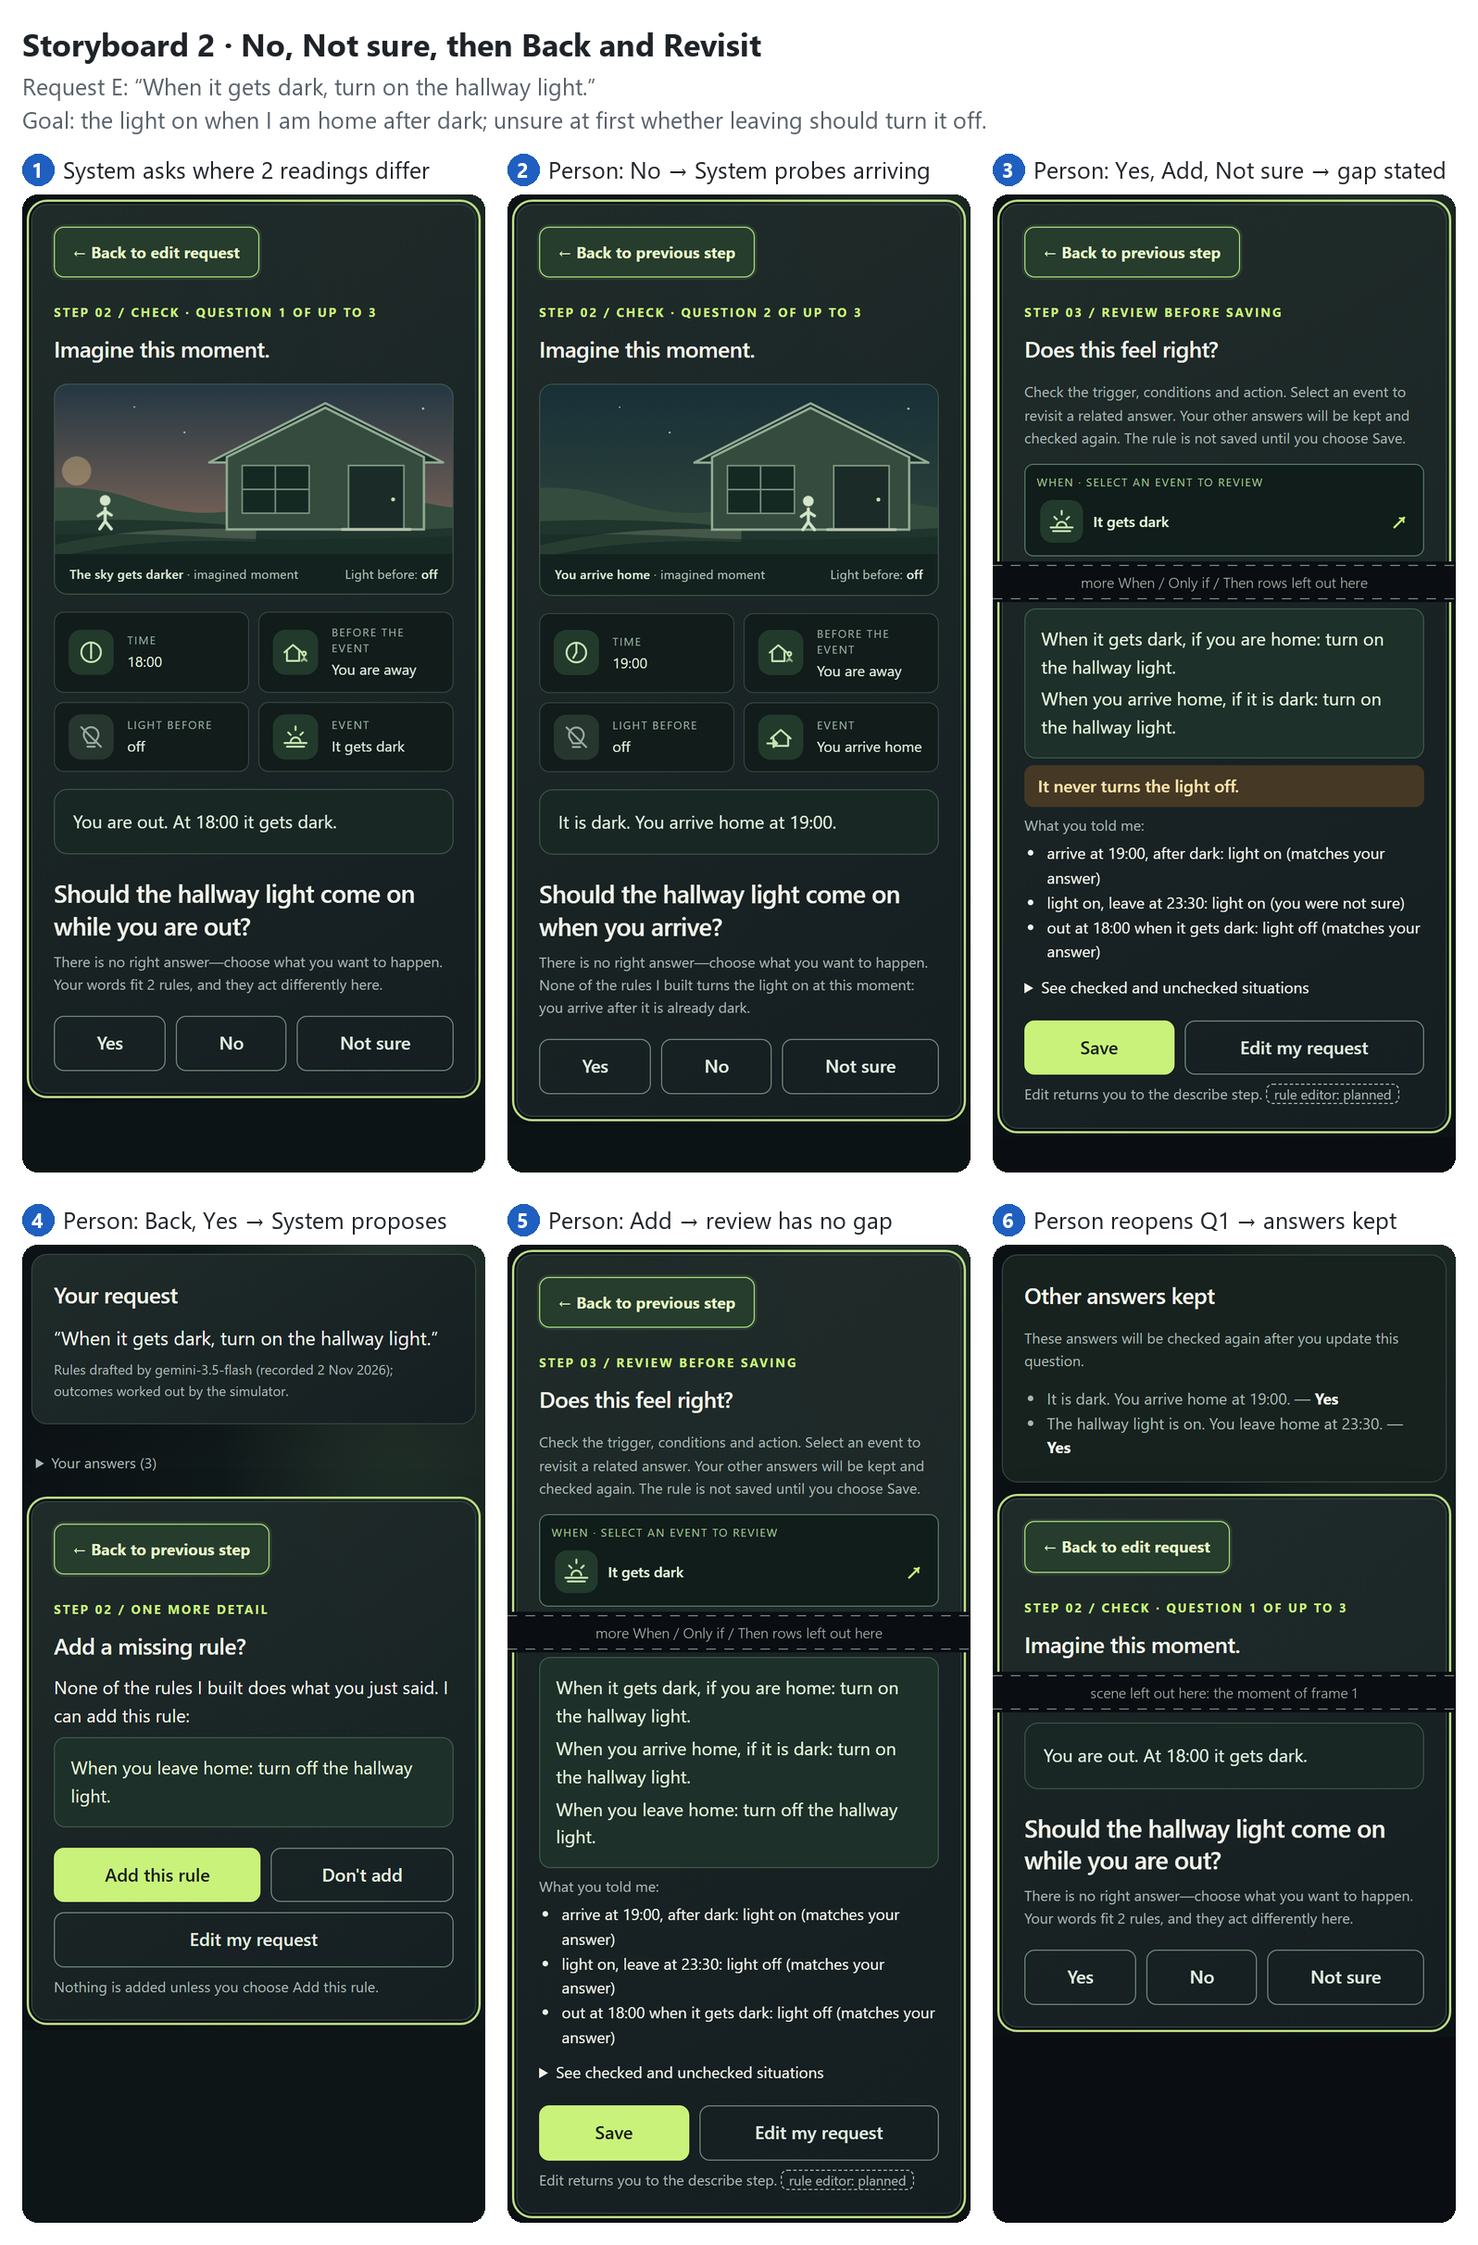
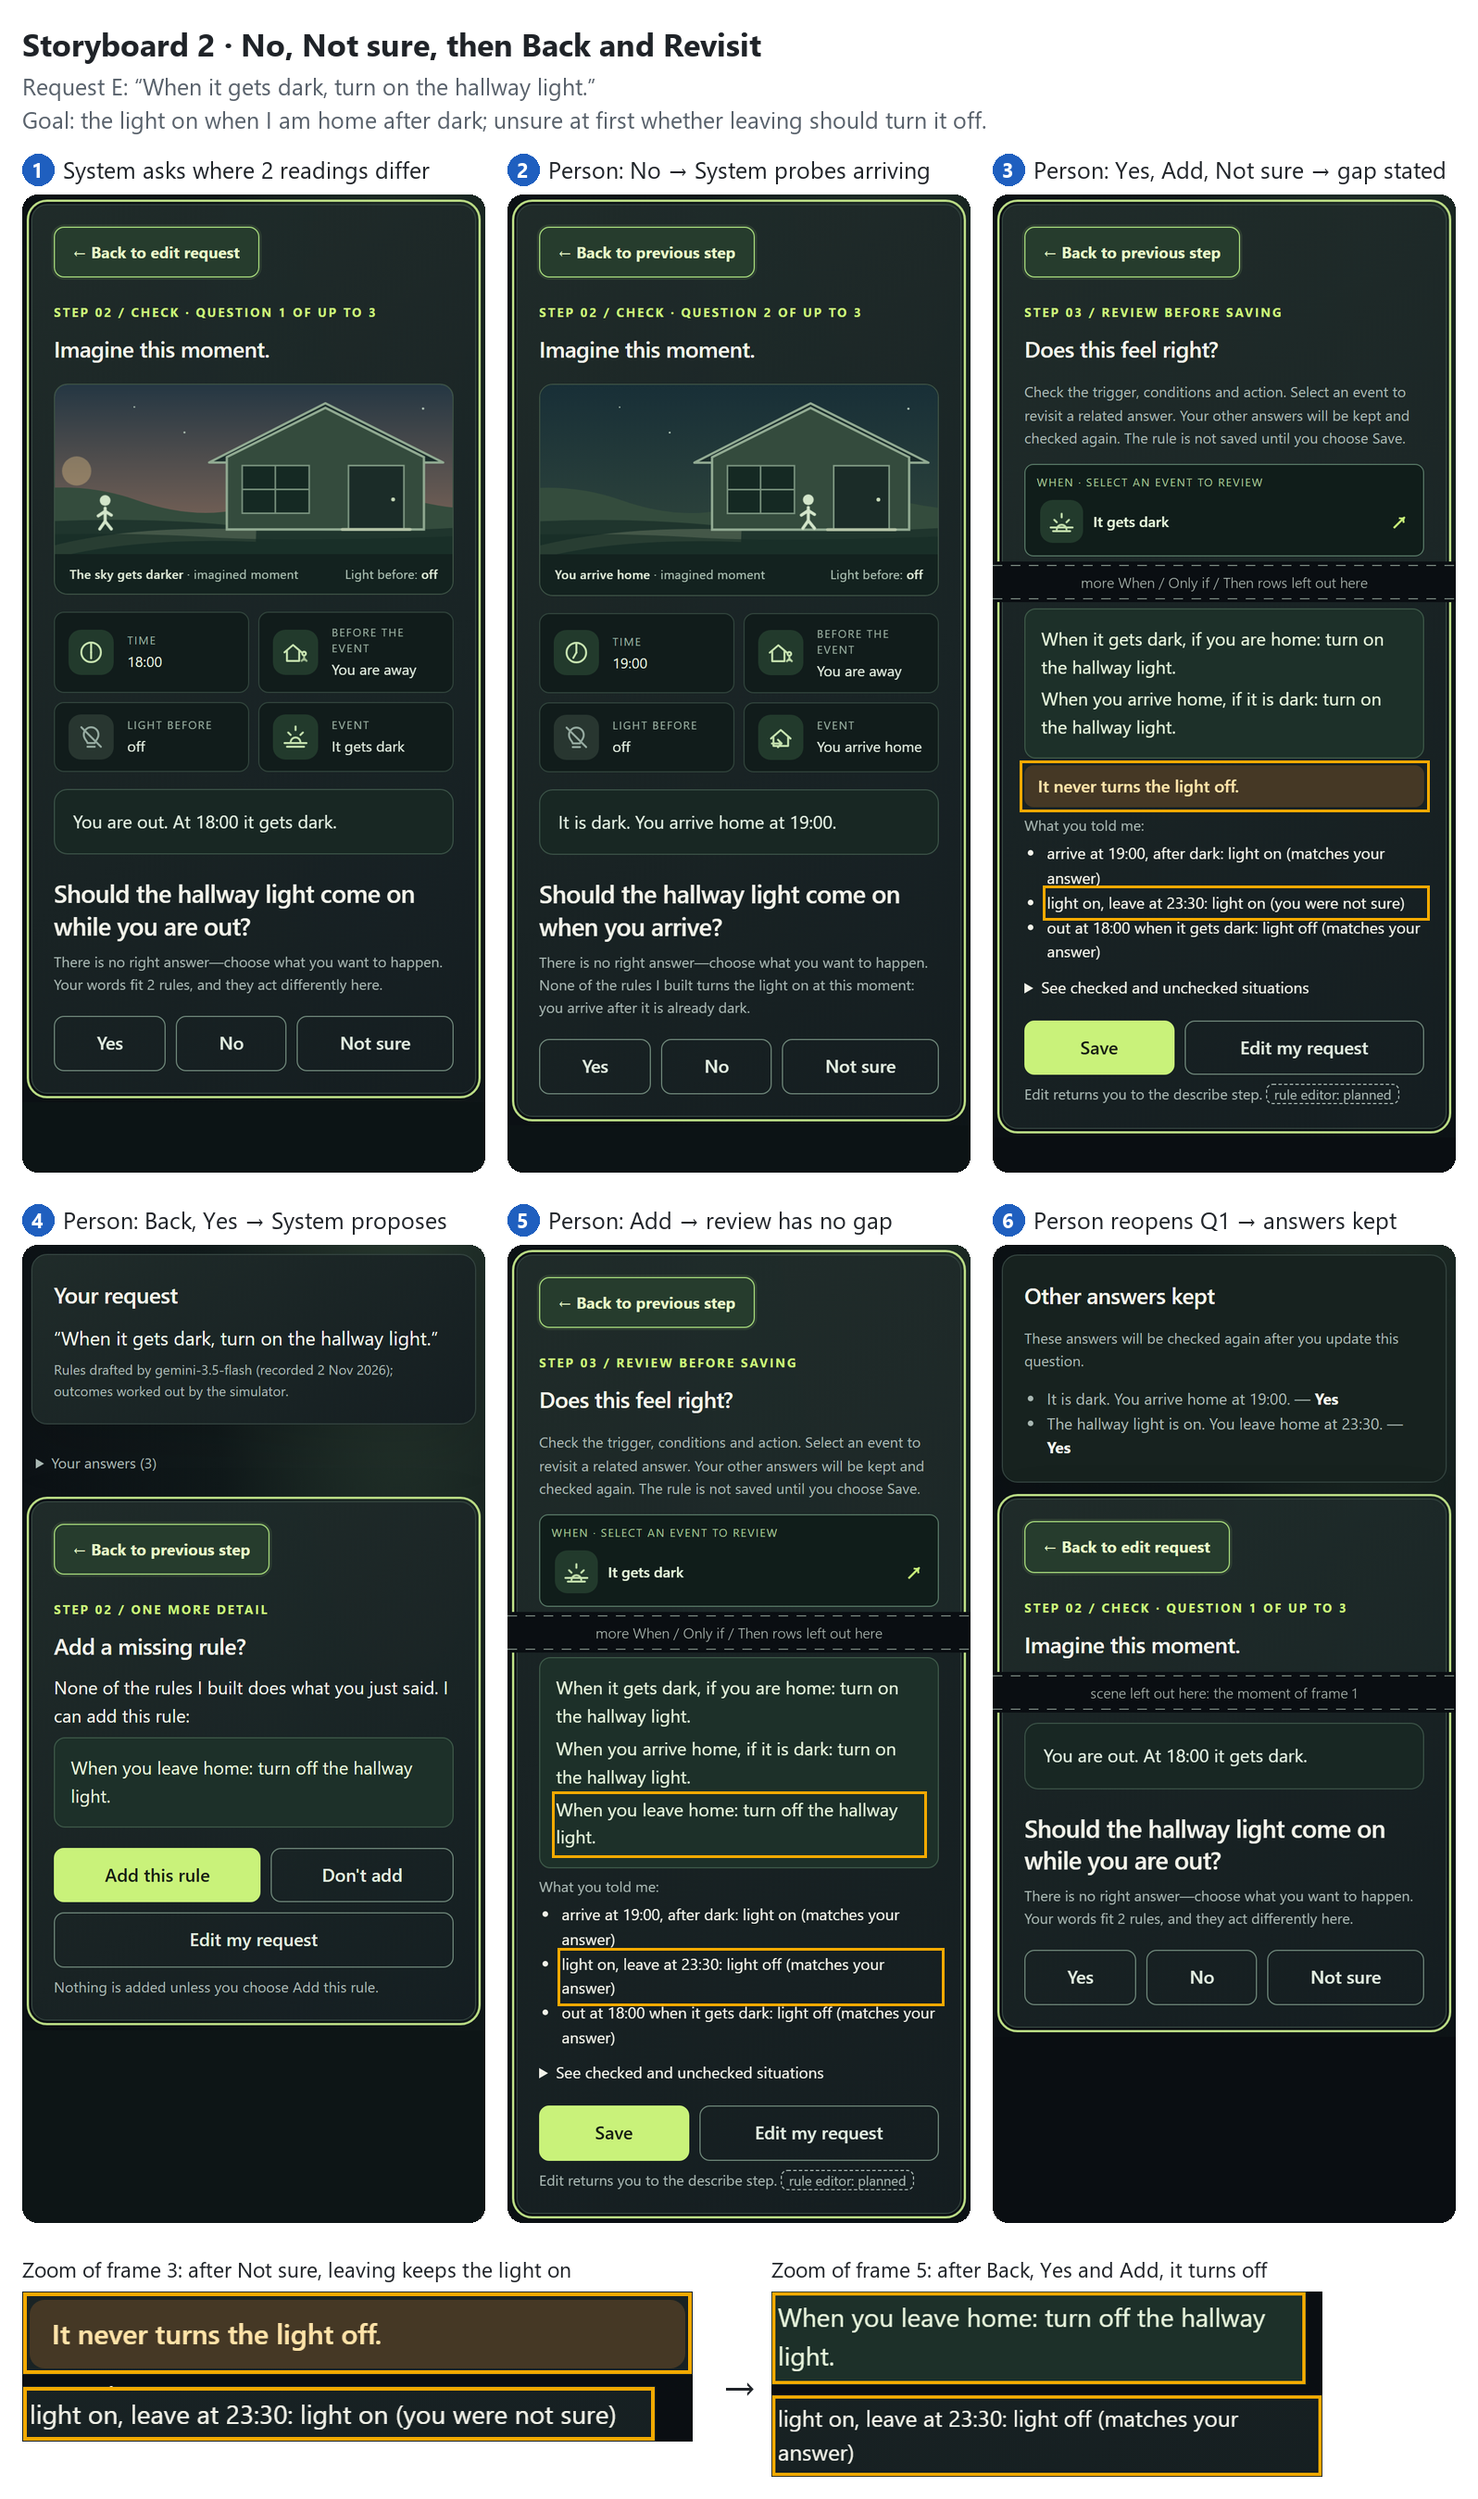
Magnify what changes about leaving home in storyboard 2
Frames 3 and 5 of storyboard 2 are review cards for request E, before
and after Back. The change that matters, what happens when the person
leaves at 23:30, sat in one small list line. Now:

- tools/capture.mjs records, on each review card, where the "leave at
  23:30" answer line, the "never" note and the last rule are
  (frames.json, "marks");
- tools/make_storyboards.py outlines those parts in frames 3 and 5 and
  adds a zoom row under storyboard 2 with the same parts at screen
  resolution: after Not sure, "It never turns the light off" and
  "light on (you were not sure)"; after Back, Yes and Add, the added
  "off" rule and "light off (matches your answer)".

The zoom shows real pixels of the captured screens; nothing is redrawn.
Storyboard 2 is taller (1596x2698), so it goes in the report at about
13.5 cm wide to fit a page.

Checked: storyboard 2 recaptured from the app in recorded mode
(X-Driver: capture-script); every frame and both zoom panels looked at;
storyboards 1 and 3 are unchanged; 50 tests pass.

diff --git a/tools/make_storyboards.py b/tools/make_storyboards.py
@@ -7,7 +7,8 @@ size, so a whole storyboard fits on one report page: a shorter card sits at the 
 tools/capture.mjs records what may be left out at a marked cut (on a review card the When / Only if / Then
 rows after the first, which the sentence below them restates; on a reopened question its scene). The title
 gives the request and the person's goal. Labels are short on purpose: who acts and what the system does
-in response. Explanations belong in the report text.
+in response. Explanations belong in the report text. Storyboard 2 ends with a zoom row: the review card's
+lines about leaving home in frames 3 and 5, outlined in both places, so the change after Back is legible.
 """
 import json
 import sys
@@ -40,6 +41,9 @@ STORIES = {
         ("s2_4.png", "Person: Back, Yes → System proposes"),
         ("s2_5.png", "Person: Add → review has no gap"),
         ("s2_6.png", "Person reopens Q1 → answers kept"),
+    ], [   # zoom row: (frame number, marks to show, label)
+        (3, ["never", "leave"], "Zoom of frame 3: after Not sure, leaving keeps the light on"),
+        (5, ["lastrule", "leave"], "Zoom of frame 5: after Back, Yes and Add, it turns off"),
     ]),
     "storyboard_3": ("Storyboard 3 · A decline, then one reading: probes ask, the answer decides", ["F", "C"],
                      "Goal: lock the door (not supported); then the light on at home after dark, left on when I go out.", [
@@ -55,6 +59,8 @@ STORIES = {
 COLS, FRAME_W, MARGIN, GAP_X, GAP_Y, TITLE_H, LABEL_H, RADIUS = 3, 500, 24, 24, 28, 136, 50, 16
 CUT_CSS = 36                                   # height of the marked cut, in CSS px of the screen
 BG, INK, MUTED, ACCENT = "#ffffff", "#1f2328", "#57606a", "#1f5fbf"
+MARK = "#f2a900"                               # outline of what the zoom row magnifies
+ZOOM_LABEL_H, ZOOM_GAP, ARROW_W, ZOOM_MAX_H = 46, 12, 70, 200
 
 
 def font(name, size):
@@ -84,22 +90,40 @@ def cut_band(width, height, fill, scale, note):
     return band
 
 
-def load(file, meta):
-    """One screen, with the review card's repeated rule rows cut out where capture.mjs recorded them."""
-    im = Image.open(SCREENS / file).convert("RGB")
-    info = meta[file]
-    scale = im.height / info["height"]          # screen px per CSS px (2 at the capture's device scale)
-    cut = info.get("elide")
-    if cut:
-        top = im.crop((0, 0, im.width, round(cut["from"] * scale)))
-        bottom = im.crop((0, round(cut["to"] * scale), im.width, im.height))
-        band = cut_band(im.width, round(CUT_CSS * scale), background(im), scale,
-                        cut.get("note", "more When / Only if / Then rows left out here"))
-        joined = Image.new("RGB", (im.width, top.height + band.height + bottom.height))
-        for part, y in ((top, 0), (band, top.height), (bottom, top.height + band.height)):
-            joined.paste(part, (0, y))
-        im = joined
-    return im.resize((FRAME_W, round(im.height * FRAME_W / im.width)), Image.LANCZOS)
+class Frame:
+    """One screen, with the parts capture.mjs marked as repeated cut out at a marked band.
+
+    image is the frame at storyboard size; full is the same at screen resolution, for the zoom row;
+    box(name) gives a recorded mark as (x0, y0, x1, y1) in full-resolution px after the cut."""
+
+    def __init__(self, file, meta):
+        im = Image.open(SCREENS / file).convert("RGB")
+        self.info = meta[file]
+        self.scale = im.height / self.info["height"]     # screen px per CSS px (2 at the capture's device scale)
+        cut = self.cut = self.info.get("elide")
+        if cut:
+            top = im.crop((0, 0, im.width, round(cut["from"] * self.scale)))
+            bottom = im.crop((0, round(cut["to"] * self.scale), im.width, im.height))
+            band = cut_band(im.width, round(CUT_CSS * self.scale), background(im), self.scale,
+                            cut.get("note", "more When / Only if / Then rows left out here"))
+            joined = Image.new("RGB", (im.width, top.height + band.height + bottom.height))
+            for part, y in ((top, 0), (band, top.height), (bottom, top.height + band.height)):
+                joined.paste(part, (0, y))
+            im = joined
+        self.full = im
+        self.ratio = FRAME_W / im.width
+        self.image = im.resize((FRAME_W, round(im.height * self.ratio)), Image.LANCZOS)
+
+    def _y(self, css):
+        cut = self.cut
+        if cut and css >= cut["to"]:
+            return (css - cut["to"] + cut["from"] + CUT_CSS) * self.scale
+        return css * self.scale
+
+    def box(self, name, pad=4):
+        m = self.info["marks"][name]
+        return (round((m["x"] - pad) * self.scale), round(self._y(m["y"] - pad)),
+                round((m["x"] + m["w"] + pad) * self.scale), round(self._y(m["y"] + m["h"] + pad)))
 
 
 def fit(draw, text, name, size, width):
@@ -109,10 +133,34 @@ def fit(draw, text, name, size, width):
     return font(name, size)
 
 
-def compose(name, title, requests, goal, frames, frame_h):
+def zoom_panels(frames, zoom, panel_w):
+    """For each zoomed frame: its marked parts at screen resolution, stacked, each outlined, fitted to panel_w."""
+    panels = []
+    for number, names, label in zoom:
+        frame = frames[number - 1][0]
+        pieces = [frame.full.crop(frame.box(n)) for n in names]
+        width = max(p.width for p in pieces)
+        stack = Image.new("RGB", (width, sum(p.height for p in pieces) + ZOOM_GAP * (len(pieces) - 1)),
+                          background(frame.full))
+        draw, y = ImageDraw.Draw(stack), 0
+        for piece in pieces:
+            stack.paste(piece, (0, y))
+            draw.rectangle([1, y + 1, piece.width - 2, y + piece.height - 2], outline=MARK, width=4)
+            y += piece.height + ZOOM_GAP
+        factor = min(1.0, panel_w / stack.width, ZOOM_MAX_H / stack.height)
+        panels.append((stack.resize((round(stack.width * factor), round(stack.height * factor)), Image.LANCZOS),
+                       label))
+    return panels
+
+
+def compose(name, title, requests, goal, frames, frame_h, zoom=None):
     rows = -(-len(frames) // COLS)
     width = MARGIN * 2 + COLS * FRAME_W + (COLS - 1) * GAP_X
     height = MARGIN + TITLE_H + rows * (LABEL_H + frame_h) + (rows - 1) * GAP_Y + MARGIN
+    panels = zoom_panels(frames, zoom, (width - 2 * MARGIN - ARROW_W) // 2) if zoom else []
+    zoom_top = height - MARGIN + GAP_Y
+    if panels:
+        height = zoom_top + ZOOM_LABEL_H + max(p.height for p, _ in panels) + MARGIN
     canvas = Image.new("RGB", (width, height), BG)
     draw = ImageDraw.Draw(canvas)
     text_w = width - 2 * MARGIN
@@ -131,9 +179,23 @@ def compose(name, title, requests, goal, frames, frame_h):
         draw.text((x + 17, y + 23), str(n), font=number_font, fill="#ffffff", anchor="mm")
         draw.text((x + 44, y + 23), label, font=fit(draw, label, "segoeui.ttf", 25, FRAME_W - 44), fill=INK,
                   anchor="lm")
-        screen = Image.new("RGB", (FRAME_W, frame_h), background(im))
-        screen.paste(im, (0, 0))
+        screen = Image.new("RGB", (FRAME_W, frame_h), background(im.image))
+        screen.paste(im.image, (0, 0))
+        for number, names, _ in (zoom or []):        # outline, in the frame, what the zoom row magnifies
+            if number == n:
+                outline = ImageDraw.Draw(screen)
+                for mark in names:
+                    x0, y0, x1, y1 = (round(v * im.ratio) for v in im.box(mark))
+                    outline.rectangle([x0, y0, x1, y1], outline=MARK, width=3)
         canvas.paste(screen, (x, y + LABEL_H), mask)
+    if panels:
+        panel_w = (width - 2 * MARGIN - ARROW_W) // 2
+        for i, (panel, label) in enumerate(panels):
+            x = MARGIN + i * (panel_w + ARROW_W)
+            draw.text((x, zoom_top + 21), label, font=fit(draw, label, "segoeui.ttf", 23, panel_w), fill=INK, anchor="lm")
+            canvas.paste(panel, (x, zoom_top + ZOOM_LABEL_H))
+        draw.text((MARGIN + panel_w + ARROW_W // 2, zoom_top + ZOOM_LABEL_H + max(p.height for p, _ in panels) // 2),
+                  "→", font=font("segoeuib.ttf", 44), fill=INK, anchor="mm")
     out = ROOT / "docs" / f"{name}.png"
     canvas.save(out, optimize=True)
     print(f"wrote {out.relative_to(ROOT)} ({canvas.width}x{canvas.height}, frames {FRAME_W}x{frame_h})")
@@ -143,16 +205,16 @@ def main():
     only = sys.argv[1] if len(sys.argv) > 1 else None
     meta = json.loads((SCREENS / "frames.json").read_text(encoding="utf-8"))
     loaded = {}
-    for name, (_, _, _, frames) in STORIES.items():
+    for name, (_, _, _, frames, *_) in STORIES.items():
         missing = [f for f, _ in frames if not (SCREENS / f).exists() or f not in meta]
         if missing:
             sys.exit(f"{name}: missing {', '.join(missing)} (run node tools/capture.mjs --stories first)")
-        loaded[name] = [(load(f, meta), label) for f, label in frames]
+        loaded[name] = [(Frame(f, meta), label) for f, label in frames]
     # One frame height for every storyboard, so the figures match each other too.
-    frame_h = max(im.height for frames in loaded.values() for im, _ in frames)
-    for name, (title, requests, goal, _) in STORIES.items():
+    frame_h = max(im.image.height for frames in loaded.values() for im, _ in frames)
+    for name, (title, requests, goal, _, *zoom) in STORIES.items():
         if not only or only == name:
-            compose(name, title, requests, goal, loaded[name], frame_h)
+            compose(name, title, requests, goal, loaded[name], frame_h, zoom[0] if zoom else None)
 
 
 if __name__ == "__main__":
